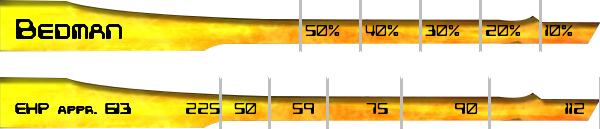
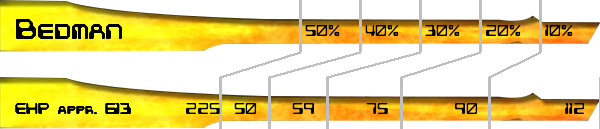
corrected line colour from white to grey

diff --git a/guilty_gear_hp_display.py b/guilty_gear_hp_display.py
@@ -185,7 +185,7 @@ def create_comp_img(character, char_health):
     for pair in zip(diagonals_start, diagonals_end):
         list = pair[0] + pair[1]
         draw = ImageDraw.Draw(comp_image)
-        draw.line(list , fill=(255, 255, 255, 128), width=3)
+        draw.line(list , fill=(128, 128, 128, 128), width=3)
     comp_image.save(os.path.join("output", "comp", name +"_comp"+ ".png"))
 
 def draw_comp():
